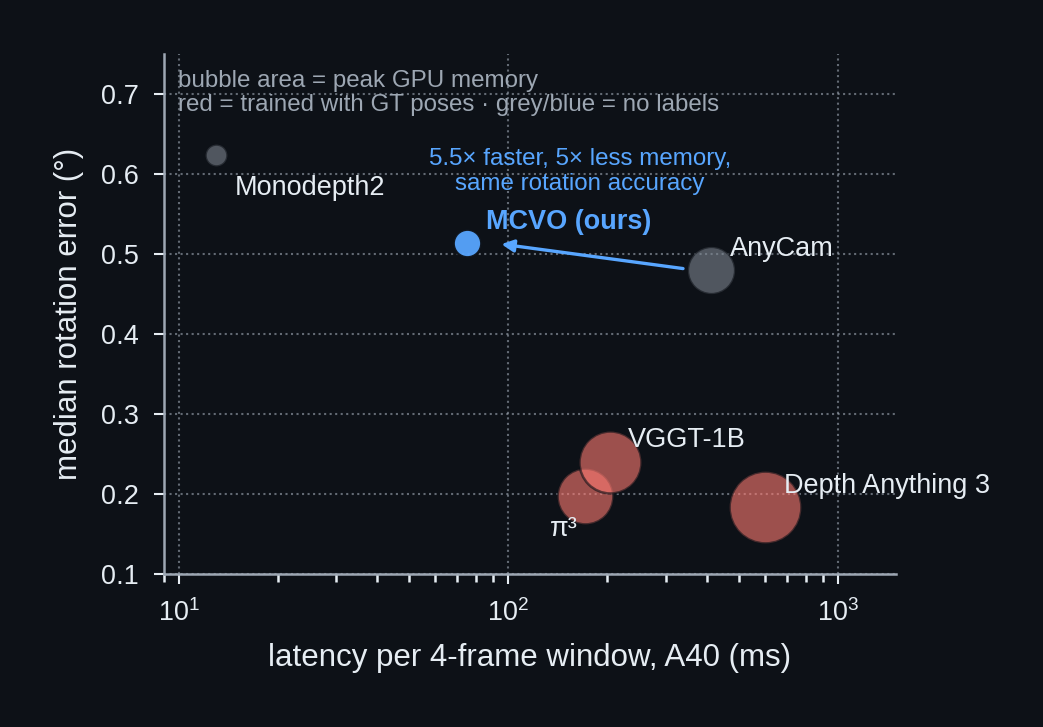
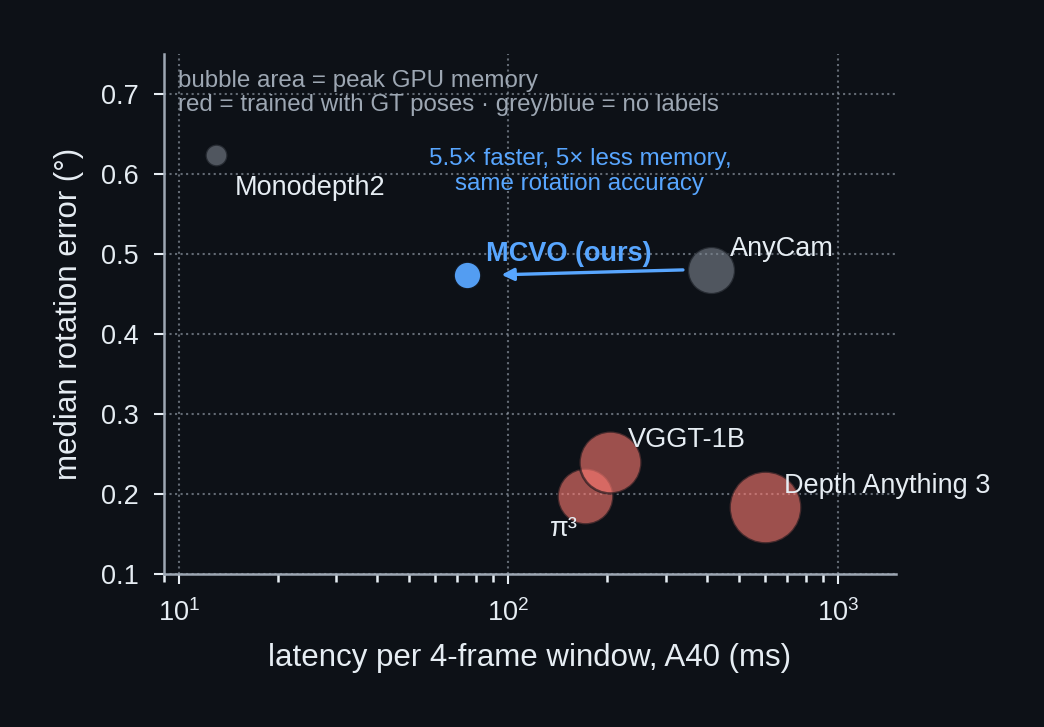
paths relative to the repo; figures regenerated

diff --git a/assets/make_figures.py b/assets/make_figures.py
@@ -7,6 +7,7 @@ from pathlib import Path
 plt.rcParams.update({"font.family": "Liberation Sans", "font.size": 7.5, "axes.linewidth": 0.6,
                      "xtick.labelsize": 6.5, "ytick.labelsize": 6.5, "axes.labelsize": 7.5, "legend.fontsize": 6.5})
 import os
+REPO = Path(__file__).resolve().parents[1]; OUT = Path(__file__).resolve().parent
 DARK = os.environ.get("THEME", "light") == "dark"
 SUF = "_dark" if DARK else ""
 BG = "#0d1117" if DARK else "white"
@@ -16,7 +17,7 @@ FILL_BB, FILL_DEC, FILL_HEAD, FILL_TRAIN = ("#1c2140", "#12301f", "#3a2412", "#1
 plt.rcParams.update({"figure.facecolor": BG, "axes.facecolor": BG, "savefig.facecolor": BG, "text.color": INK, "axes.labelcolor": INK, "xtick.color": INK, "ytick.color": INK, "axes.edgecolor": GREY, "grid.color": GREY, "legend.labelcolor": INK})
 TEXTW = 6.5  # inches, = \linewidth of the PDF
 
-K = Path.home()/"git/masters/anycam-extension/data/eval/kitti_odom"
+K = Path(os.environ.get("KITTI_ODOM", REPO/"data/eval/kitti_odom"))
 poses = np.loadtxt(K/"poses/07.txt").reshape(-1,3,4); t = poses[:,:,3]
 frames = [Image.open(K/f"sequences/07/image_2/{i:06d}.jpg") for i in (0, 10, 20)]
 
@@ -109,7 +110,7 @@ box(0.44, 0.045, 0.27, 0.22, "flow re-projection loss", "unproject with depth an
 # gradients: vertical dashed line from the loss box up into the inference box
 seg([(0.575, 0.265), (0.575, 0.40)], MUTED, 0.7, (0,(2,2))); head(0.575, 0.40, 0.575, 0.43, MUTED, 0.7)
 cv.text(0.585, 0.36, "gradients", ha="left", va="center", fontsize=5.6, color=MUTED, style="italic")
-fig.savefig(f"overview_mcvo{SUF}.png", facecolor=BG, dpi=300, bbox_inches="tight", pad_inches=0.22); print("overview ok")
+fig.savefig(OUT/f"overview_mcvo{SUF}.png", facecolor=BG, dpi=300, bbox_inches="tight", pad_inches=0.22); print("overview ok")
 
 # ============================================================ results: same size, same style
 def style(ax):
@@ -117,7 +118,7 @@ def style(ax):
     ax.grid(True, ls=":", lw=0.5, alpha=0.6); ax.tick_params(length=2.5, width=0.5)
 
 FW, FH = 3.15, 2.25
-rows = [("MCVO (ours)", 75, 0.69, np.mean([0.46,0.89,0.19]), BLUE, True),
+rows = [("MCVO (ours)", 75, 0.69, np.mean([0.48,0.76,0.18]), BLUE, True),
         ("AnyCam", 413, 3.7, np.mean([0.50,0.74,0.20]), MUTED, False),
         ("Monodepth2", 13, 0.09, np.mean([0.80,0.77,0.30]), MUTED, False),
         ("π³", 171, 5.5, np.mean([0.22,0.26,0.11]), RED, False),
@@ -132,12 +133,12 @@ for name, lat, mem, rot, col, ours in rows:
 ax.set_xscale("log"); ax.set_xlabel("latency per 4-frame window, A40 (ms)"); ax.set_ylabel("median rotation error (°)")
 ax.set_xlim(9, 1500); ax.set_ylim(0.1, 0.75); style(ax)
 ax.text(0.02, 0.97, "bubble area = peak GPU memory\nred = trained with GT poses · grey/blue = no labels", transform=ax.transAxes, fontsize=5.8, va="top", color=GREY, linespacing=1.15)
-r_m, r_a = np.mean([0.46,0.89,0.19]), np.mean([0.50,0.74,0.20])
+r_m, r_a = np.mean([0.48,0.76,0.18]), np.mean([0.50,0.74,0.20])
 ax.annotate("", xy=(75*1.2, r_m), xytext=(413/1.15, r_a), arrowprops=dict(arrowstyle="-|>", mutation_scale=6, color=BLUE, lw=0.8), zorder=2)
 ax.text(165, 0.58, "5.5× faster, 5× less memory,\nsame rotation accuracy", fontsize=5.8, color=BLUE, ha="center", linespacing=1.15)
-fig.savefig(f"benchmark_mcvo{SUF}.png", bbox_inches="tight", pad_inches=0.18, facecolor=BG, dpi=300); print("benchmark ok")
+fig.savefig(OUT/f"benchmark_mcvo{SUF}.png", bbox_inches="tight", pad_inches=0.18, facecolor=BG, dpi=300); print("benchmark ok")
 
-d = json.load(open(Path.home()/"git/masters/anycam-extension/thesis_results/figures/figure_data.json"))
+d = json.load(open(REPO/"thesis_results/figures/figure_data.json"))
 fig, ax = plt.subplots(figsize=(FW, FH), dpi=300)
 nw = d["n_windows"]; xw = np.arange(nw)
 xa = np.linspace(0, nw-1, d["n_anycalib_points"])
@@ -148,4 +149,4 @@ ax.plot(xw, d["fat_fx"], color=BLUE, lw=1.3, label="ours, multi-frame calibratio
 ax.set_xlabel(f"window index, Sintel {d['sequence']}"); ax.set_ylabel("focal length (px)")
 lo, hi = np.percentile(np.r_[d["anycalib_fx"], d["fat_fx"]], [1, 99]); ax.set_ylim(min(lo, d["gt_fx"])*0.8, max(hi, d["gt_fx"])*1.25)
 style(ax); ax.set_ylim(0, 1250); ax.legend(loc="upper right", frameon=True, framealpha=0.9, facecolor=BG, edgecolor="none", ncol=1)
-fig.savefig(f"focal_mcvo{SUF}.png", bbox_inches="tight", pad_inches=0.18, facecolor=BG, dpi=300); print("focal ok")
+fig.savefig(OUT/f"focal_mcvo{SUF}.png", bbox_inches="tight", pad_inches=0.18, facecolor=BG, dpi=300); print("focal ok")

diff --git a/experiments/calib_bench/datasets.py b/experiments/calib_bench/datasets.py
@@ -421,7 +421,7 @@ class Objectron(SeqDataset):
     poses = ARKit camera transforms (x right, y up, z backward), intrinsics for the
     LANDSCAPE sensor -> swapped for the portrait frame (fx<->fy, cx<->cy)."""
     NAME = "objectron"
-    ROOT = Path(os.environ.get("OBJECTRON_ROOT", "/home/kalmanm/Documents/thesis/Objectron"))
+    ROOT = Path(os.environ.get("OBJECTRON_ROOT", "data/objectron"))
     FLIP = np.diag([1.0, -1.0, -1.0, 1.0])
 
     def _load(self, sequences):

diff --git a/experiments/dataset_paths.py b/experiments/dataset_paths.py
@@ -44,7 +44,7 @@ LIGHTSPEED_ROOT = Path(
 # AnyCam source root (for sys.path modifications)
 # Can be overridden with ANYCAM_SRC_ROOT environment variable
 ANYCAM_SRC_ROOT = Path(
-    os.environ.get("ANYCAM_SRC_ROOT", "/home/kalmanm/git/masters/anycam-extension")
+    os.environ.get("ANYCAM_SRC_ROOT", str(Path(__file__).resolve().parents[1]))
 )
 
 # Helper function to get paths as strings (for argparse defaults)
